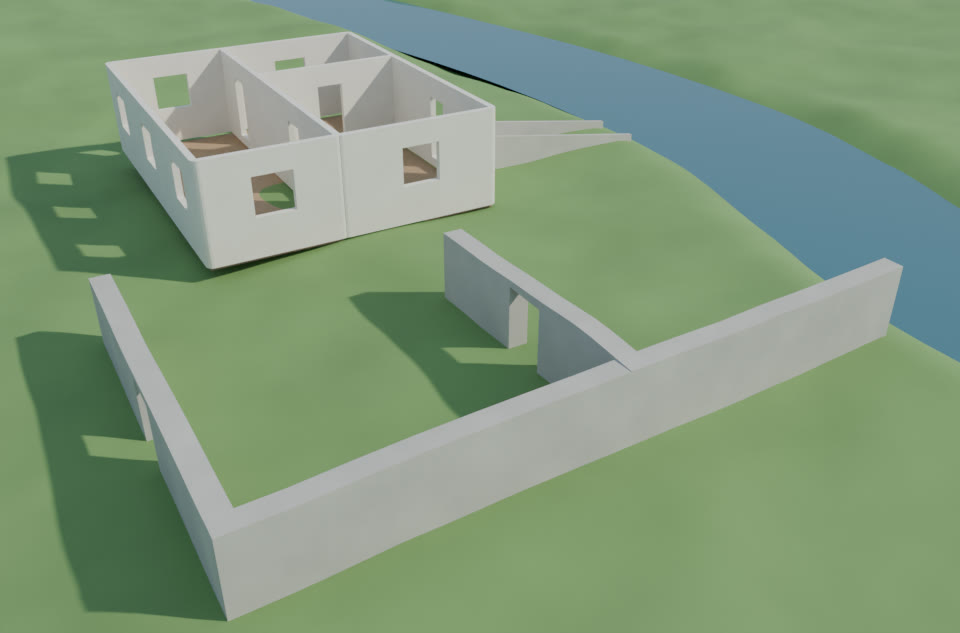
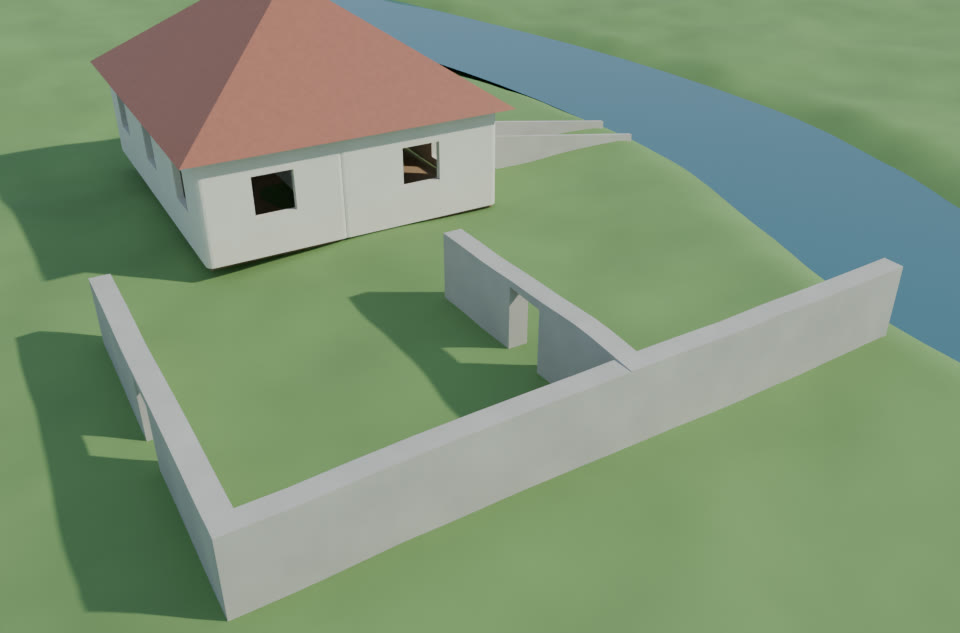
Roof capability: flat, gable or hip, stacked on top of rooms
A roof over whatever the object already has: put it after rooms (or
walls) on the same object and it takes the footprint and height from the
bounding box of what is below. Hip roofs move the ridge ends in by half the
width so every slope has the same pitch. Checked by rays: ridge at
2.8 + 2.5 tan 35 = 4.551 m, hip slopes at the ends, flat slab on top.
test_gn_library: 72 checks on Blender 5.0.1 and 5.1.2. The village demo
house gets a hip roof (docs/village_demo.jpg).

Changed region(s): [[0.0312, 0.0, 0.5312, 0.3602], [0.0, 0.2401, 0.125, 0.4502]]

diff --git a/codenodes/gn/library.py b/codenodes/gn/library.py
@@ -13,6 +13,7 @@ seeded (the same seed gives the same result) and documented through their inputs
     along_curve      things beside a curve at a steady spacing: lamps, benches, fences
     wall_network     walls along every spline of a curve, joined at corners and T's
     rooms            a floor plan of closed outlines -> floors, walls, doorways, windows
+    roof             flat, gable or hip, on top of whatever the object already has
     stairs           stairs or a ramp along a curve between its two end heights
     water            a water surface along a curve (a river carved with terrain's Carve)
 
@@ -1077,4 +1078,63 @@ def water():
     # still finds it (another object sees this one's result, not the curve it was drawn as)
     guide = g.node("GeometryNodeSetCurveRadius", {"Curve": curve, "Radius": 0.0})["Curve"]
     g.output("Geometry", "geometry", g.join(surface, guide))
+    return g
+
+
+@capability("roof")
+def roof():
+    g = Graph("CN Roof", "A roof over whatever the object already has — put it after rooms (or "
+                         "walls) on the same object and it sits on top: flat, gable, or hip with "
+                         "equal pitch all round, spanning the footprint's longer side, with an "
+                         "overhang. For rectangular footprints; an L-shaped plan gets one roof "
+                         "over its whole outline.")
+    geo = g.input("Geometry", "geometry")
+    style = g.input("Style", "int", 2, 0, 2, "0 flat, 1 gable, 2 hip")
+    pitch = g.input("Pitch", "float", 0.61, 0.05, 1.4, "how steep the slopes are", subtype="ANGLE")
+    over = g.input("Overhang", "float", 0.4, 0.0, 10.0, "how far the eaves reach past the walls",
+                   subtype="DISTANCE")
+    slab = g.input("Flat Thickness", "float", 0.25, 0.01, 5.0, "for the flat style", subtype="DISTANCE")
+    roof_mat = g.input("Material", "material")
+
+    box = g.node("GeometryNodeBoundBox", {"Geometry": geo})
+    lo, hi = g.separate(box["Min"]), g.separate(box["Max"])
+    sx, sy = g.math("SUBTRACT", hi["X"], lo["X"]), g.math("SUBTRACT", hi["Y"], lo["Y"])
+    along_x = g.compare("GREATER_EQUAL", sx, sy)
+    twice = g.math("MULTIPLY", over, 2.0)
+    length = g.math("ADD", g.math("MAXIMUM", sx, sy), twice)
+    width = g.math("ADD", g.math("MINIMUM", sx, sy), twice)
+    half_l, half_w = g.math("MULTIPLY", length, 0.5), g.math("MULTIPLY", width, 0.5)
+    rise = g.math("MULTIPLY", half_w, g.math("TANGENT", pitch))
+
+    line = _upright(g, g.node("GeometryNodeCurvePrimitiveLine",
+                              {"Start": g.xyz(g.math("MULTIPLY", half_l, -1.0), 0, 0),
+                               "End": g.xyz(half_l, 0, 0)})["Curve"])
+    # swept profiles point Y down (see `wall`), so the ridge is at y = -rise
+    gable = g.node("GeometryNodeCurvePrimitiveQuadrilateral",
+                   {"Point 1": g.xyz(g.math("MULTIPLY", half_w, -1.0), 0, 0),
+                    "Point 2": g.xyz(0, g.math("MULTIPLY", rise, -1.0), 0),
+                    "Point 3": g.xyz(half_w, 0, 0), "Point 4": (0.0, 0.0, 0.0)}, mode="POINTS")["Curve"]
+    flat = g.node("GeometryNodeTransform",
+                  {"Geometry": g.node("GeometryNodeCurvePrimitiveQuadrilateral",
+                                      {"Width": width, "Height": slab})["Curve"],
+                   "Translation": g.xyz(0, g.math("MULTIPLY", slab, -0.5), 0)})["Geometry"]
+    is_flat = g.compare("EQUAL", style, 0, "INT")
+    prism = g.node("GeometryNodeCurveToMesh",
+                   {"Curve": line, "Profile Curve": g.switch("GEOMETRY", is_flat, gable, flat),
+                    "Fill Caps": True})["Mesh"]
+    # hip: the ridge's two ends move in by half the width, so every slope has the same pitch
+    here = g.separate(g.position())
+    ridge = g.logic("AND", g.compare("EQUAL", style, 2, "INT"),
+                    g.compare("GREATER_THAN", here["Z"], g.math("MULTIPLY", rise, 0.999)))
+    hipped = g.node("GeometryNodeSetPosition",
+                    {"Geometry": prism, "Selection": ridge,
+                     "Offset": g.xyz(g.math("MULTIPLY", g.math("SIGN", here["X"]),
+                                            g.math("MULTIPLY", half_w, -1.0)), 0, 0)})["Geometry"]
+    merged = g.node("GeometryNodeMergeByDistance", {"Geometry": hipped, "Distance": 0.0001})["Geometry"]
+    placed = g.node("GeometryNodeTransform",
+                    {"Geometry": merged,
+                     "Translation": g.xyz(g.math("MULTIPLY", g.math("ADD", lo["X"], hi["X"]), 0.5),
+                                          g.math("MULTIPLY", g.math("ADD", lo["Y"], hi["Y"]), 0.5), hi["Z"]),
+                     "Rotation": g.xyz(0, 0, g.switch("FLOAT", along_x, 1.5707963, 0.0))})["Geometry"]
+    g.output("Geometry", "geometry", g.join(geo, _material(g, _flat_shaded(g, placed), roof_mat)))
     return g

diff --git a/tests/test_gn_library.py b/tests/test_gn_library.py
@@ -74,7 +74,7 @@ def main():
     listed = agent.nodes_library()
     keys = [c["key"] for c in listed["capabilities"]]
     check(set(keys) >= {"terrain", "scatter", "wall", "path_bridge", "along_curve",
-                        "wall_network", "rooms", "stairs", "water"},
+                        "wall_network", "rooms", "roof", "stairs", "water"},
           f"the library lists its capabilities ({', '.join(keys)})")
     check(all(c["about"] and c["inputs"] for c in listed["capabilities"]),
           "each one says what it does and what it takes")
@@ -237,6 +237,21 @@ def main():
     check(front == 6.9 and ray("Plan", (1.5, 77, 1.5), (0, 1, 0)) == 2.9,
           "the entrance replaces the windows on the first outside wall")
 
+    # --- a roof on top of the rooms: same object, the next modifier ----------------------
+    got = agent.nodes_use("roof", "Plan", {"Style": 1, "Pitch": math.radians(35), "Overhang": 0.4})
+    ridge = 2.8 + 2.5 * math.tan(math.radians(35))       # 4.2 m of walls + 0.8 m of eaves, halved
+    gable = [top("Plan", x, 82) for x in (5.0, 1.0, -0.3)]
+    check(got["ok"] and all(abs(z - ridge) < 0.002 for z in gable) and abs(got["made"]["size"][0] - 11.0) < 0.01,
+          f"a gable roof sits on the walls, its ridge at {ridge:.3f} m, eaves 0.4 m out ({gable})")
+    agent.nodes_set_inputs("Plan", {"Style": 2}, modifier=got["modifier"])
+    hip = [top("Plan", x, 82) for x in (5.0, 1.0, -0.3)]
+    want = [ridge, 2.8 + 1.5 * math.tan(math.radians(35)), 2.8 + 0.2 * math.tan(math.radians(35))]
+    check(all(abs(a - b) < 0.002 for a, b in zip(hip, want)),
+          f"a hip roof slopes at the same pitch at the ends ({hip})")
+    agent.nodes_set_inputs("Plan", {"Style": 0}, modifier=got["modifier"])
+    check(abs(top("Plan", 5.0, 82) - 3.05) < 0.002, "and a flat one is a slab on top")
+    agent.nodes_set_inputs("Plan", {"Style": 2}, modifier=got["modifier"])
+
     # --- stairs and a ramp ----------------------------------------------------------------
     agent.curve("Flight", [[0, 100, 0], [6, 100, 3]], smooth=False)
     got = agent.nodes_use("stairs", "Flight")
@@ -278,7 +293,7 @@ def main():
     # every capability's tree survives the round trip, geometry for geometry
     hosts = {"CN Terrain": ground, "CN Scatter": "Carpet", "CN Wall Along Curve": "Courtyard",
              "CN Path and Bridge": "Trail", "CN Props Along Curve": "Lamps",
-             "CN Wall Network": "Net", "CN Rooms": "Plan", "CN Stairs": "Flight",
+             "CN Wall Network": "Net", "CN Rooms": "Plan", "CN Roof": "Plan", "CN Stairs": "Flight",
              "CN Water Along Curve": "River"}
     for group, host in hosts.items():
         before = signature(made(host))

diff --git a/codenodes/agent.py b/codenodes/agent.py
@@ -379,7 +379,7 @@ Working with Geometry Nodes here:
 
 1. Look before you build. nodes_library() lists ready-made, tested capabilities (terrain
    with river/road carving, scatter, walls and wall networks, rooms from a floor plan,
-   stairs, bridges over gaps, water…); nodes_use builds one. Prefer composing those over
+   roofs, stairs, bridges over gaps, water…); nodes_use builds one. Prefer composing those over
    writing everything from scratch. A floor plan or wall network is one curve object with
    several splines: curve(name, splines=[[...], [...]]).
 2. nodes_find("words") finds node types; nodes_describe(type) gives exact socket names,

diff --git a/mcp/codenodes_mcp/server.py b/mcp/codenodes_mcp/server.py
@@ -191,7 +191,7 @@ def nodes_help() -> dict:
 def nodes_library() -> dict:
     """Ready-made, tested world-building capabilities — terrain (with river and road
     carving), scatter, walls with doorways, wall networks joined at corners and T's, rooms
-    from a floor plan, stairs and ramps, paths that become bridges over gaps, props along a
+    from a floor plan, roofs, stairs and ramps, paths that become bridges over gaps, props along a
     curve, water — with every input, its range and what it does. Compose these before
     writing nodes from scratch."""
     return _call("nodes_library")

diff --git a/examples/village_demo.py b/examples/village_demo.py
@@ -45,6 +45,8 @@ agent.curve("House", splines=[
     [[0, 5, z], [11, 5, z], [11, 9, z], [0, 9, z]]], cyclic=True, smooth=False)
 agent.nodes_use("rooms", "House", {"Wall Material": "Plaster", "Floor Material": "Planks",
                                    "Entrance": 0})
+agent.material("Tiles", [0.36, 0.13, 0.08], roughness=0.6, variation=0.3, variation_scale=6.0)
+agent.nodes_use("roof", "House", {"Style": 2, "Material": "Tiles"})
 
 # a yard wall: a network of walls meeting at corners and a T
 agent.curve("Yard", splines=[[[-12, -3, z], [-12, 12, z]], [[-12, 12, z], [-2, 12, z]],

diff --git a/README.md b/README.md
@@ -186,12 +186,13 @@ node group with its controls as modifier sliders, seeded so the same seed gives 
 | `along_curve` | things beside a curve at a spacing — lamps, benches — one side, both, or alternating |
 | `wall_network` | walls along every spline of a curve, unioned into one solid where they meet at corners, T's and crossings; doorways that keep off the junctions |
 | `rooms` | a floor plan of closed outlines → floors, walls joined where rooms touch, one doorway between each pair of rooms, windows along outside walls, an entrance |
+| `roof` | flat, gable or hip (equal pitch all round) with an overhang, stacked after `rooms` on the same object: it sits on whatever is below |
 | `stairs` | stairs (even steps no taller than Step Height) or a ramp along a curve, between its two end heights, solid to the ground, optional side walls; straight or curved |
 | `water` | a water surface along a curve — the river for terrain's **Carve** inputs, which cut a bed (or flatten a road) along a curve and ease the banks back |
 
 ![A village from the newer capabilities](docs/village_demo.jpg)
 
-*A house from a three-room floor plan, a yard of walls meeting at a T and two corners on uneven
+*A house from a three-room floor plan with a hip roof, a yard of walls meeting at a T and two corners on uneven
 ground, stairs, and a river carved into the terrain with water in it:
 [`examples/village_demo.py`](examples/village_demo.py).*
 
@@ -203,6 +204,7 @@ agent.nodes_set_inputs("Trail", {"Width": 3.0})          # later: "make it wider
 agent.curve("House", splines=[[[0, 0], [7, 0], [7, 5], [0, 5]],     # rooms share corners
                               [[7, 0], [11, 0], [11, 5], [7, 5]]], cyclic=True, smooth=False)
 agent.nodes_use("rooms", "House", {"Entrance": 0})
+agent.nodes_use("roof", "House", {"Style": 2})             # the next modifier: sits on the walls
 ```
 
 **Any node setup, as data, both ways.** The catalog is read out of Blender itself (320 node types
@@ -295,7 +297,7 @@ blender --factory-startup --python tests/test_agent.py         # the assistant-f
 blender --factory-startup --python tests/test_shape_blender.py # shapes as Blender objects (36)
 blender --factory-startup --python tests/test_server.py        # a real socket client against Blender (26)
 blender -b --factory-startup --python tests/test_gn.py         # Geometry Nodes as data, both ways (60)
-blender -b --factory-startup --python tests/test_gn_library.py # every capability; editing real trees (67)
+blender -b --factory-startup --python tests/test_gn_library.py # every capability; editing real trees (72)
 blender -b --factory-startup --python tests/test_web.py        # a scene as a web page with sliders (12)
 ```
 
